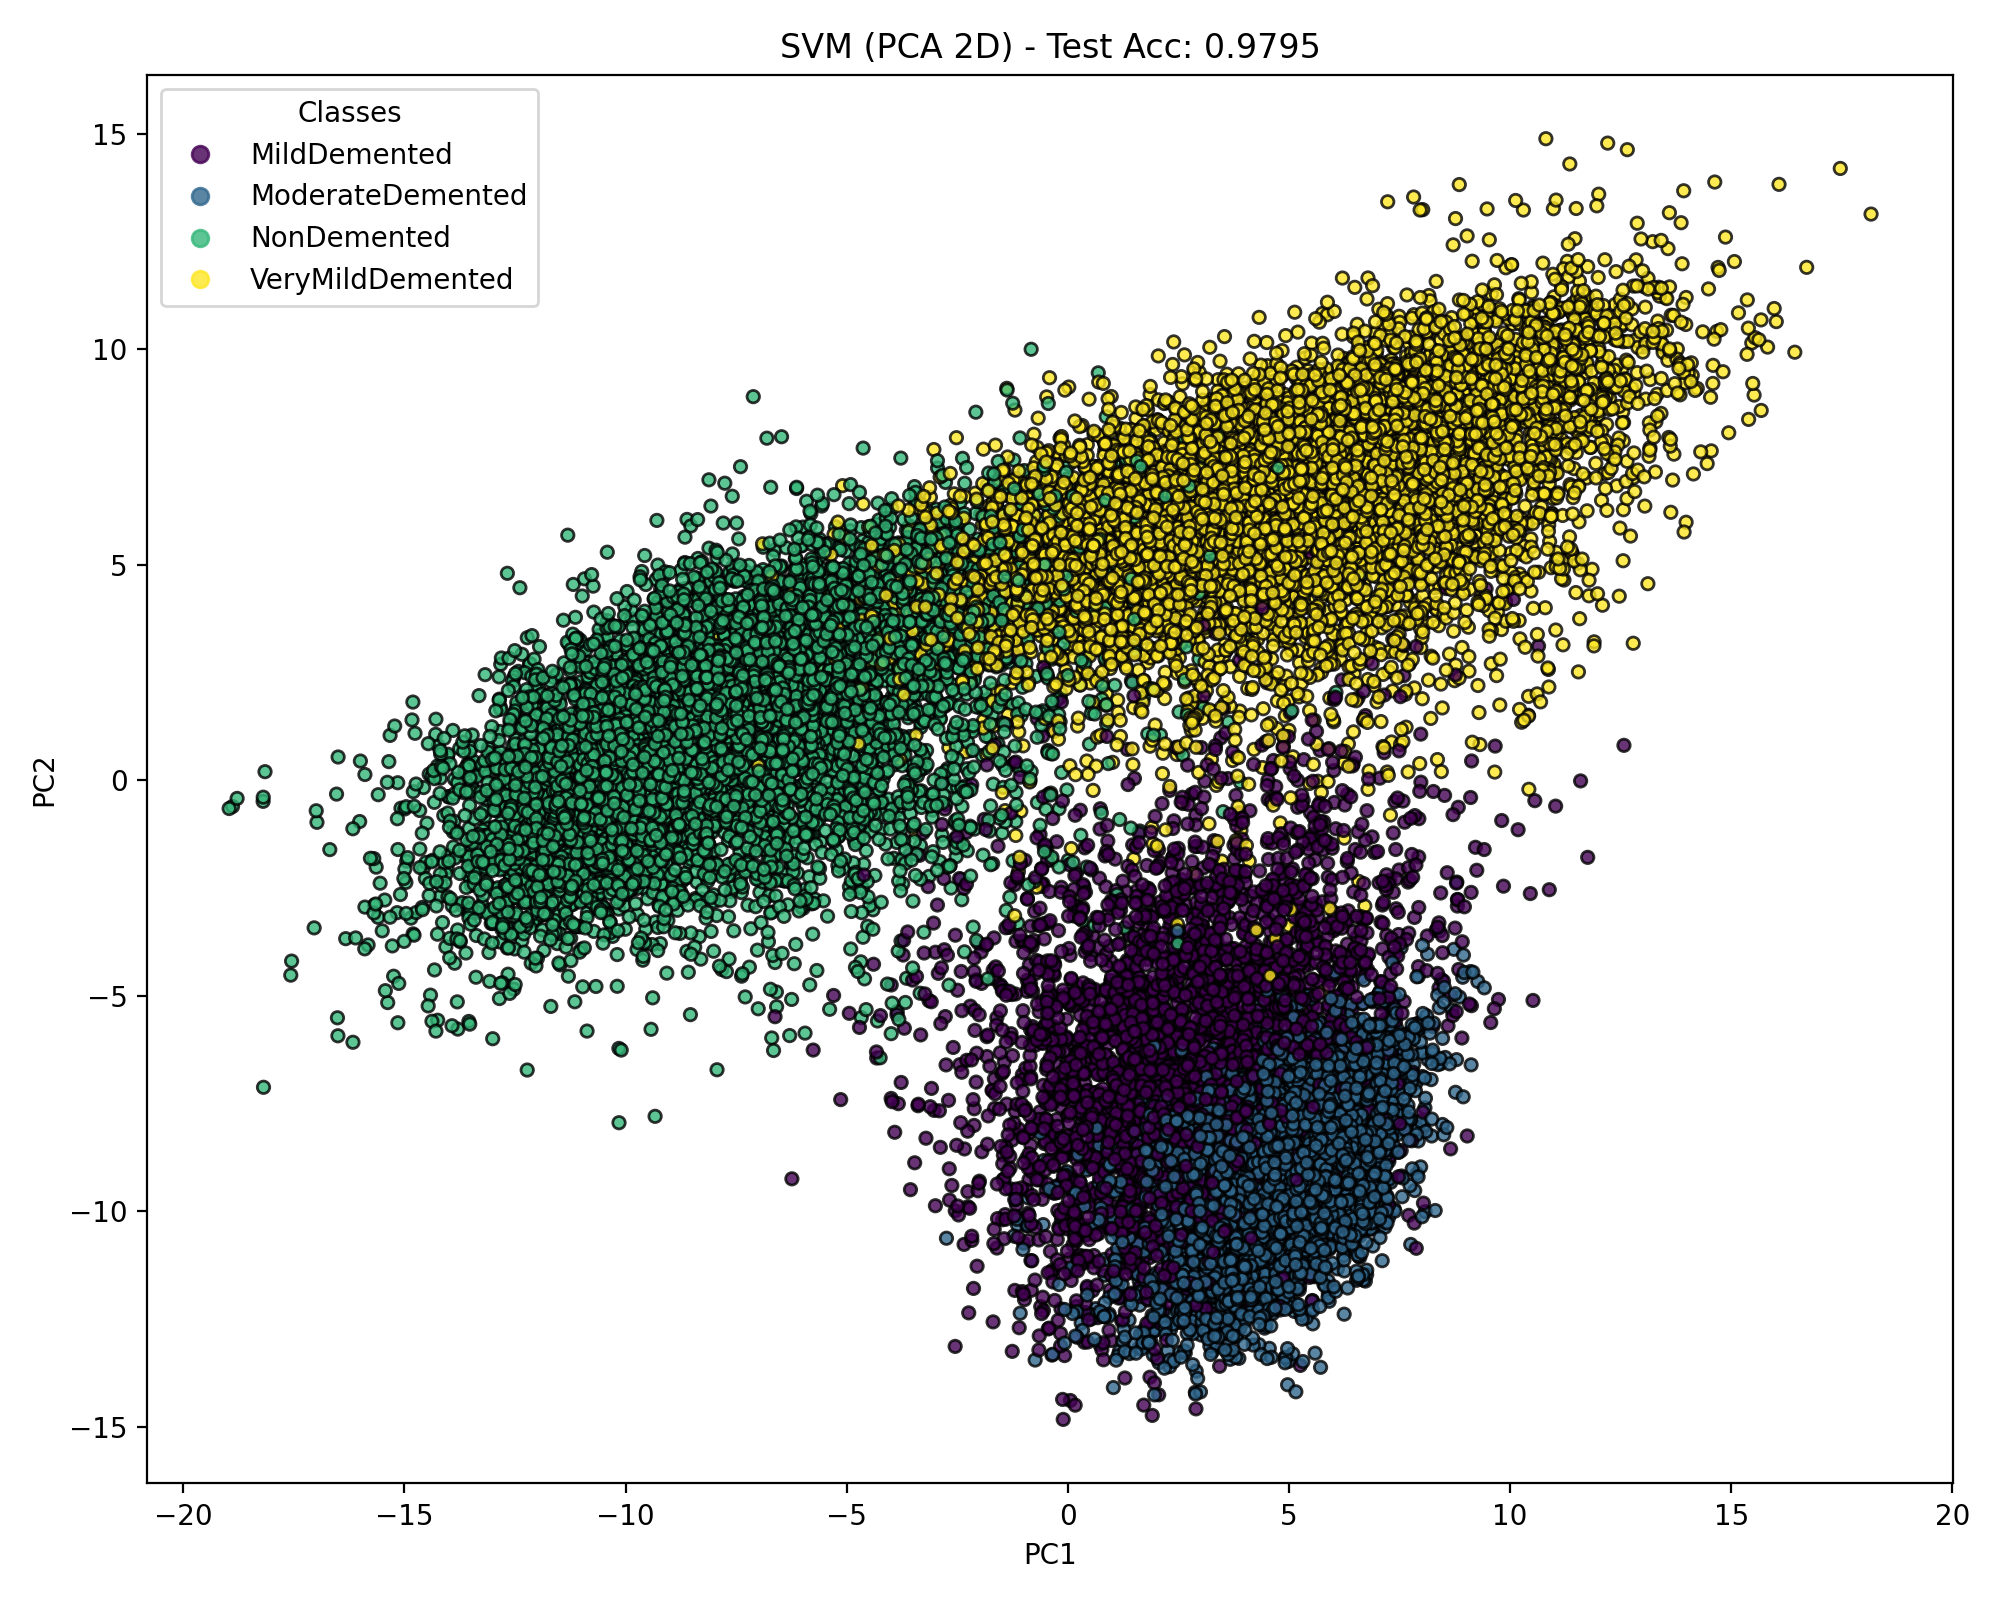
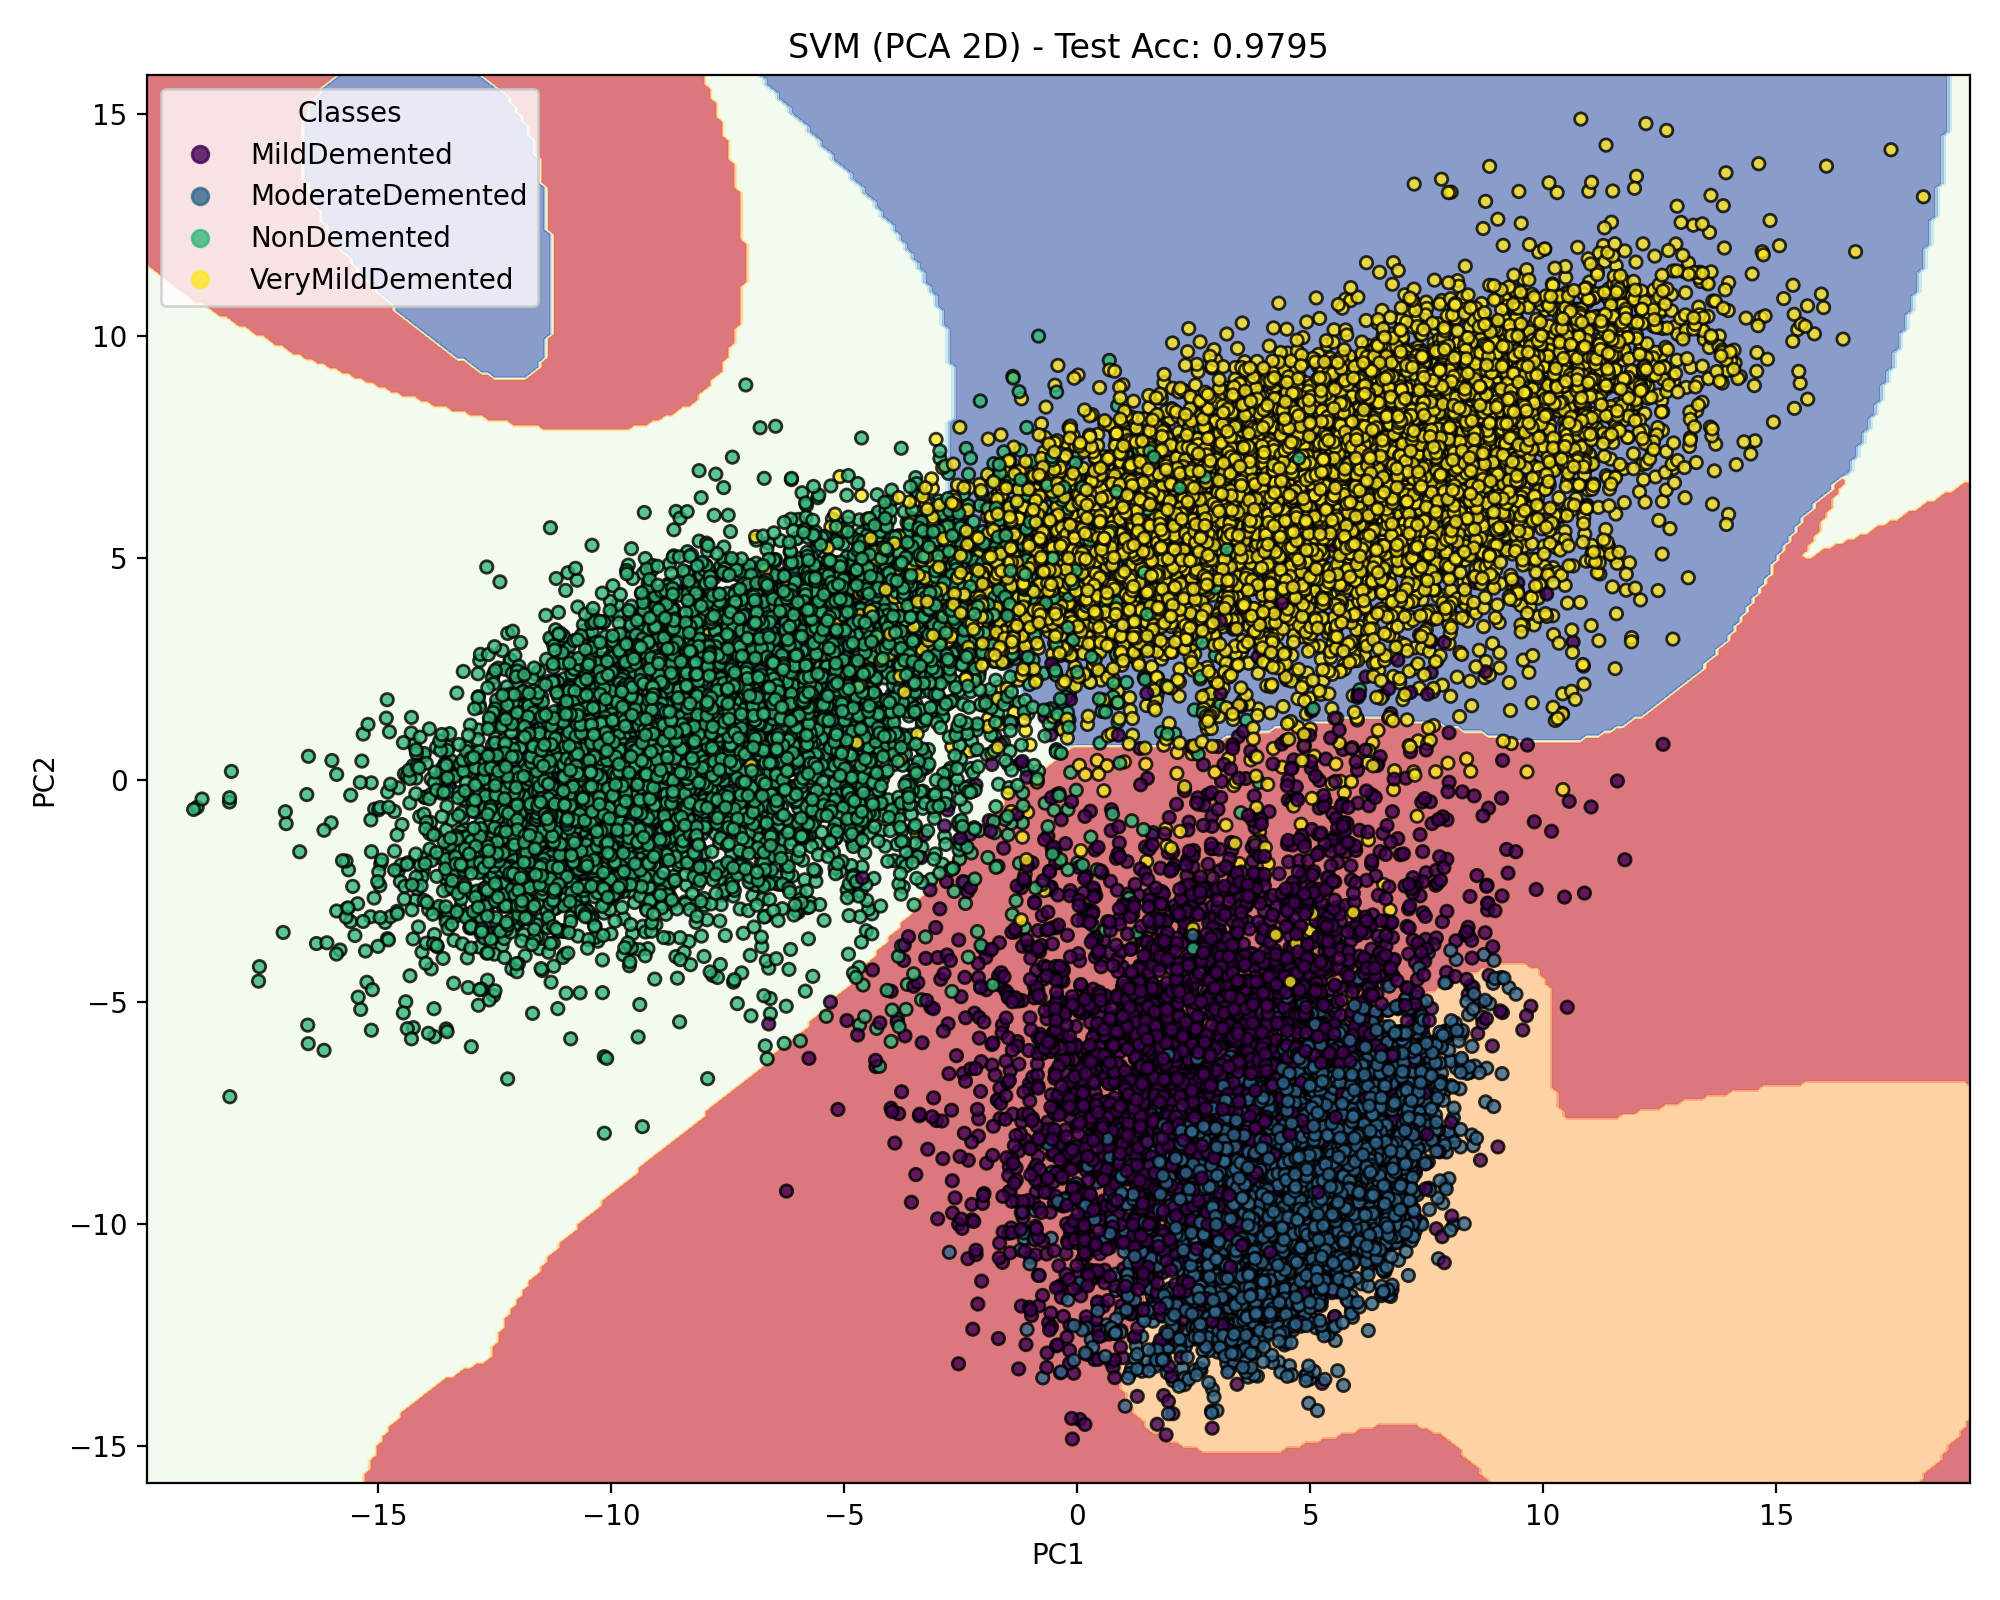
feat(svm): add decision boundary visualization for SVM model in PCA space

diff --git a/src/training/SVM.py b/src/training/SVM.py
@@ -4,6 +4,7 @@ import numpy as np
 import matplotlib.pyplot as plt
 
 from sklearn.preprocessing import StandardScaler
+from sklearn.inspection import DecisionBoundaryDisplay
 from sklearn.svm import SVC
 from sklearn.decomposition import PCA
 from sklearn.model_selection import GridSearchCV
@@ -87,8 +88,30 @@ def main():
 
     pca_path = MODELS_DIR / "svm_pca2d.joblib"
     joblib.dump(pca, pca_path)
+    
+    viz_model = SVC(
+        kernel=grid.best_params_['kernel'], 
+        C=grid.best_params_['C'],
+        gamma=grid.best_params_['gamma'],
+        class_weight='balanced',
+        random_state=42
+    )
+    viz_model.fit(X_train_pca, y_train)
 
     fig, ax = plt.subplots(figsize=(10, 8))
+    
+    DecisionBoundaryDisplay.from_estimator(
+        viz_model,
+        X_train_pca,
+        response_method="predict",
+        cmap=plt.cm.RdYlBu, 
+        alpha=0.6,
+        ax=ax,
+        grid_resolution=300,
+        xlabel="Principal Component 1",
+        ylabel="Principal Component 2",
+    )
+    
     scatter = ax.scatter(
         X_train_pca[:, 0],
         X_train_pca[:, 1],
